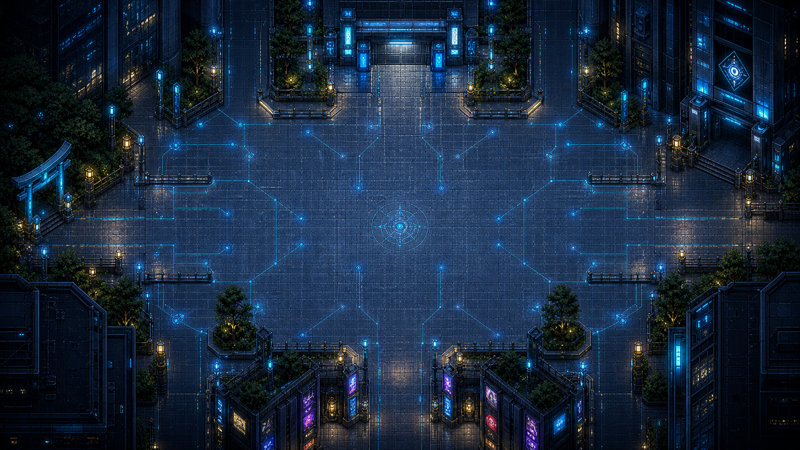
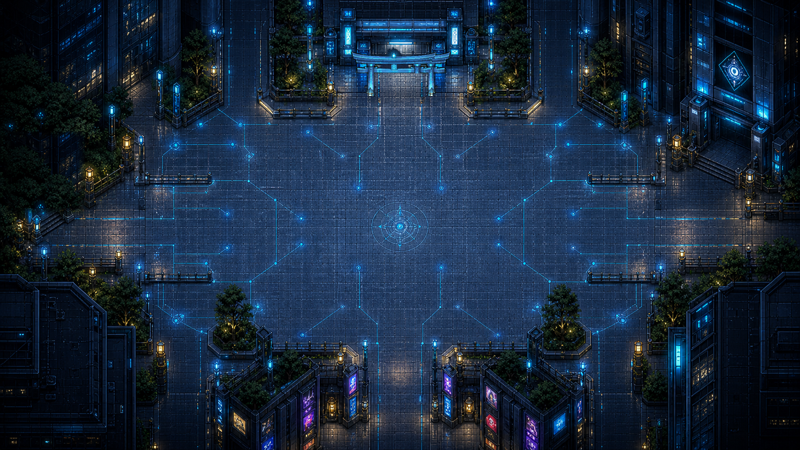
fix: 出入口の方位ねじれ解消 — 広場の絵を修正し純正配置（北=神社/西=駅）へ復帰
ユーザー報告「北に入ったのに東から出てくる」の根本対応。
隣接マップは元々方位整合で設計されている（神社=南参道で南から入る/
駅=東縁に広場口）ため、接続を入れ替えるのではなく広場の絵を世界に合わせた:
- 神社マップの正面向き大鳥居を縮小移植し北口ゲート手前に設置
  （色キー抽出+幾何バンド+左脚ミラーで右脚補完+接地影）
- 西端にあった鳥居は森でクローン充填して除去（石段・灯籠は
  「駅への並木道」として保持）
- 接続/スポーン/クエスト誘導文を純正配置（北=神社・西=駅）へ復帰
- assetVersion 65→66（マップ画像キャッシュ更新）
- 検証: playability全27マップ到達/roundtrip 17 OK/実機スクショで
  鳥居表示・両方向遷移・場所名バナー確認

Changed region(s): [[0.4375, 0.0933, 0.5625, 0.2489], [0.0, 0.28, 0.125, 0.4978]]

diff --git a/map-system.js b/map-system.js
@@ -9,7 +9,7 @@ class MapSystem {
         this.mapImages = {};
         this.spriteImages = {};
         this.objectImages = {};
-        this.assetVersion = '65';
+        this.assetVersion = '66';
         this.baseWidth = 800;
         this.baseHeight = 450;
         this.camera = { x: 0, y: 0 };
@@ -935,10 +935,10 @@ class MapSystem {
                 ],
                 exits: [
                     // 出口は walkable と十分にオーバーラップさせて 3px歩幅でも確実にトリガーする
-                    { x: 370, y: 40,  width: 51, height: 60, to: 'shinjuku_station_gate', direction: 'north', spawnX: 715, spawnY: 235 },
+                    { x: 370, y: 40,  width: 51, height: 60, to: 'shrine_south_gate',     direction: 'north', spawnX: 400, spawnY: 365 },
                     { x: 360, y: 395, width: 80, height: 55, to: 'shopping_street_north', direction: 'south', spawnX: 400, spawnY: 85  },
                     { x: 740, y: 215, width: 55, height: 50, to: 'tokyo_gov_approach',    direction: 'east',  spawnX: 50,  spawnY: 220 },
-                    { x: 6,   y: 210, width: 30, height: 60, to: 'shrine_south_gate',     direction: 'west',  spawnX: 400, spawnY: 365 }
+                    { x: 6,   y: 210, width: 30, height: 60, to: 'shinjuku_station_gate', direction: 'west',  spawnX: 715, spawnY: 235 }
                 ],
                 npcs: [
                     { x: 360, y: 250, emoji: '👤', name: '感情を失った市民', dialogue: '...。' },
@@ -1063,7 +1063,7 @@ class MapSystem {
                 exits: [
                     // 東 → 新宿中央広場、南 → 地下コンコース
                     // ※ 西側 (72, 231) は隣接マップ未定義のため一旦保留
-                    { x: 761, y: 207, width: 38, height: 104, to: 'shinjuku_center_plaza', direction: 'east',  spawnX: 400, spawnY: 130 },
+                    { x: 761, y: 207, width: 38, height: 104, to: 'shinjuku_center_plaza', direction: 'east',  spawnX: 85,  spawnY: 235 },
                     { x: 516, y: 396, width: 82, height: 48,  to: 'subway_concourse_a',    direction: 'south', spawnX: 670, spawnY: 130 }
                 ],
                 npcs: [
@@ -1674,7 +1674,7 @@ class MapSystem {
                 ],
                 exits: [
                     // 南 → 新宿中央広場、東 → バイオドーム
-                    { x: 372, y: 384, width: 64, height: 40, to: 'shinjuku_center_plaza', direction: 'south', spawnX: 85,  spawnY: 249 },
+                    { x: 372, y: 384, width: 64, height: 40, to: 'shinjuku_center_plaza', direction: 'south', spawnX: 400, spawnY: 130 },
                     { x: 763, y: 177, width: 34, height: 43, to: 'biodome_gate',          direction: 'east',  spawnX: 85,  spawnY: 235 }
                     // ※ 北 (374, 38) は神宮の奥（shrine_path）として未実装のため保留
                 ],

diff --git a/map-objects-data.js b/map-objects-data.js
@@ -20,10 +20,10 @@ window.MAP_OBJECTS = {
         "y": 0,
         "width": 102,
         "height": 100,
-        "to": "shinjuku_station_gate",
+        "to": "shrine_south_gate",
         "direction": "north",
-        "spawnX": 715,
-        "spawnY": 235
+        "spawnX": 400,
+        "spawnY": 365
       },
       {
         "x": 328,
@@ -50,10 +50,10 @@ window.MAP_OBJECTS = {
         "y": 176,
         "width": 50,
         "height": 146,
-        "to": "shrine_south_gate",
+        "to": "shinjuku_station_gate",
         "direction": "west",
-        "spawnX": 400,
-        "spawnY": 365
+        "spawnX": 715,
+        "spawnY": 235
       }
     ],
     "objects": [
@@ -861,8 +861,8 @@ window.MAP_OBJECTS = {
         "height": 122,
         "to": "shinjuku_center_plaza",
         "direction": "east",
-        "spawnX": 400,
-        "spawnY": 130
+        "spawnX": 85,
+        "spawnY": 235
       },
       {
         "x": 577,
@@ -2776,8 +2776,8 @@ window.MAP_OBJECTS = {
         "height": 50,
         "to": "shinjuku_center_plaza",
         "direction": "south",
-        "spawnX": 85,
-        "spawnY": 249
+        "spawnX": 400,
+        "spawnY": 130
       },
       {
         "x": 680,

diff --git a/quest-system.js b/quest-system.js
@@ -17,7 +17,7 @@ const QUEST_STEPS = [
   {
     id: 'go_subway', chapter: 1,
     title: '地下鉄で暴走の原因を調べる',
-    where: '広場の北 → 新宿駅 → 改札の先（南）の地下コンコース',
+    where: '広場の西 → 新宿駅 → 改札の先（南）の地下コンコース',
     detail: '機械兵が暴走しているという地下鉄へ向かおう。',
     target: 'subway_concourse_a',
     done: f => !!f.exploredSubway
@@ -33,7 +33,7 @@ const QUEST_STEPS = [
   {
     id: 'go_shrine', chapter: 1,
     title: '明治神宮で神託を聞く',
-    where: '広場の西 → 明治神宮 南参道',
+    where: '広場の北 → 明治神宮 南参道',
     detail: '謎の声に導かれ、神宮の老神主を訪ねよう。',
     target: 'shrine_south_gate',
     done: f => !!f.metPriest

diff --git a/index.html b/index.html
@@ -3536,13 +3536,13 @@
     <script src="battle-system.js?v=56"></script>
     <script src="map-walkability-data.js?v=12"></script>
     <script src="object-catalog.js?v=2"></script>
-    <script src="map-objects-data.js?v=17"></script>
-    <script src="map-system.js?v=68"></script>
+    <script src="map-objects-data.js?v=18"></script>
+    <script src="map-system.js?v=69"></script>
     <script src="map-system-grid.js"></script>
     <script src="player-grid-movement.js"></script>
     <script src="bgm-system.js?v=36"></script>
     <script src="party-system.js?v=47"></script>
-    <script src="quest-system.js?v=3"></script>
+    <script src="quest-system.js?v=4"></script>
     <script src="story-events.js?v=49"></script>
 
     <script>
